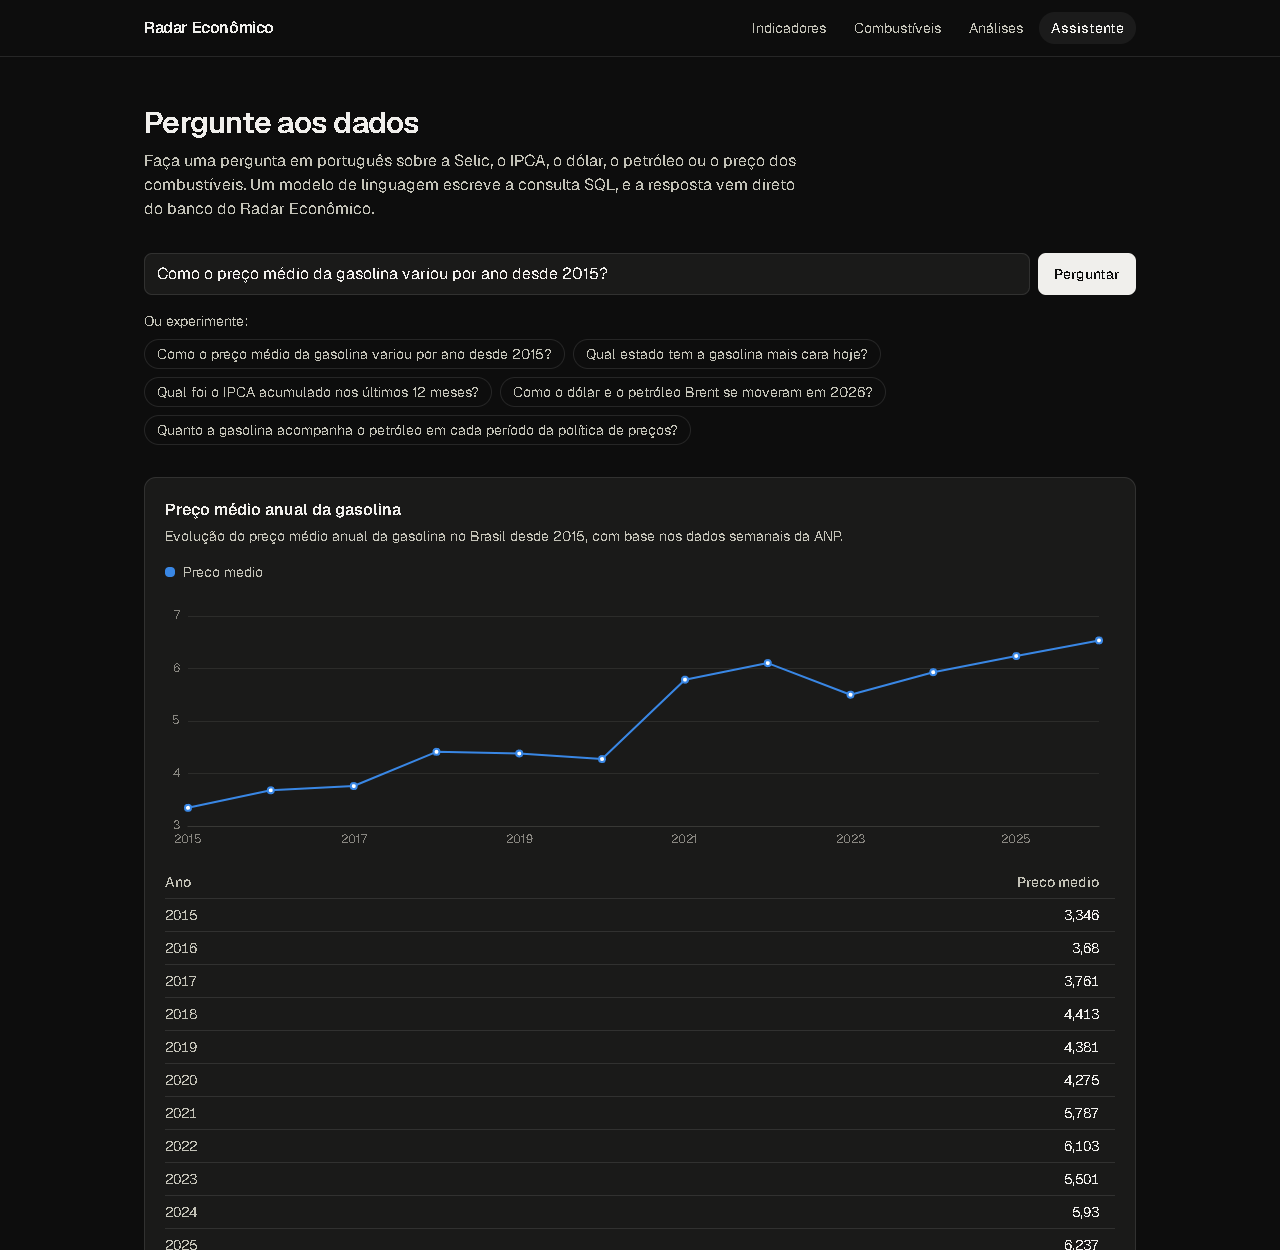
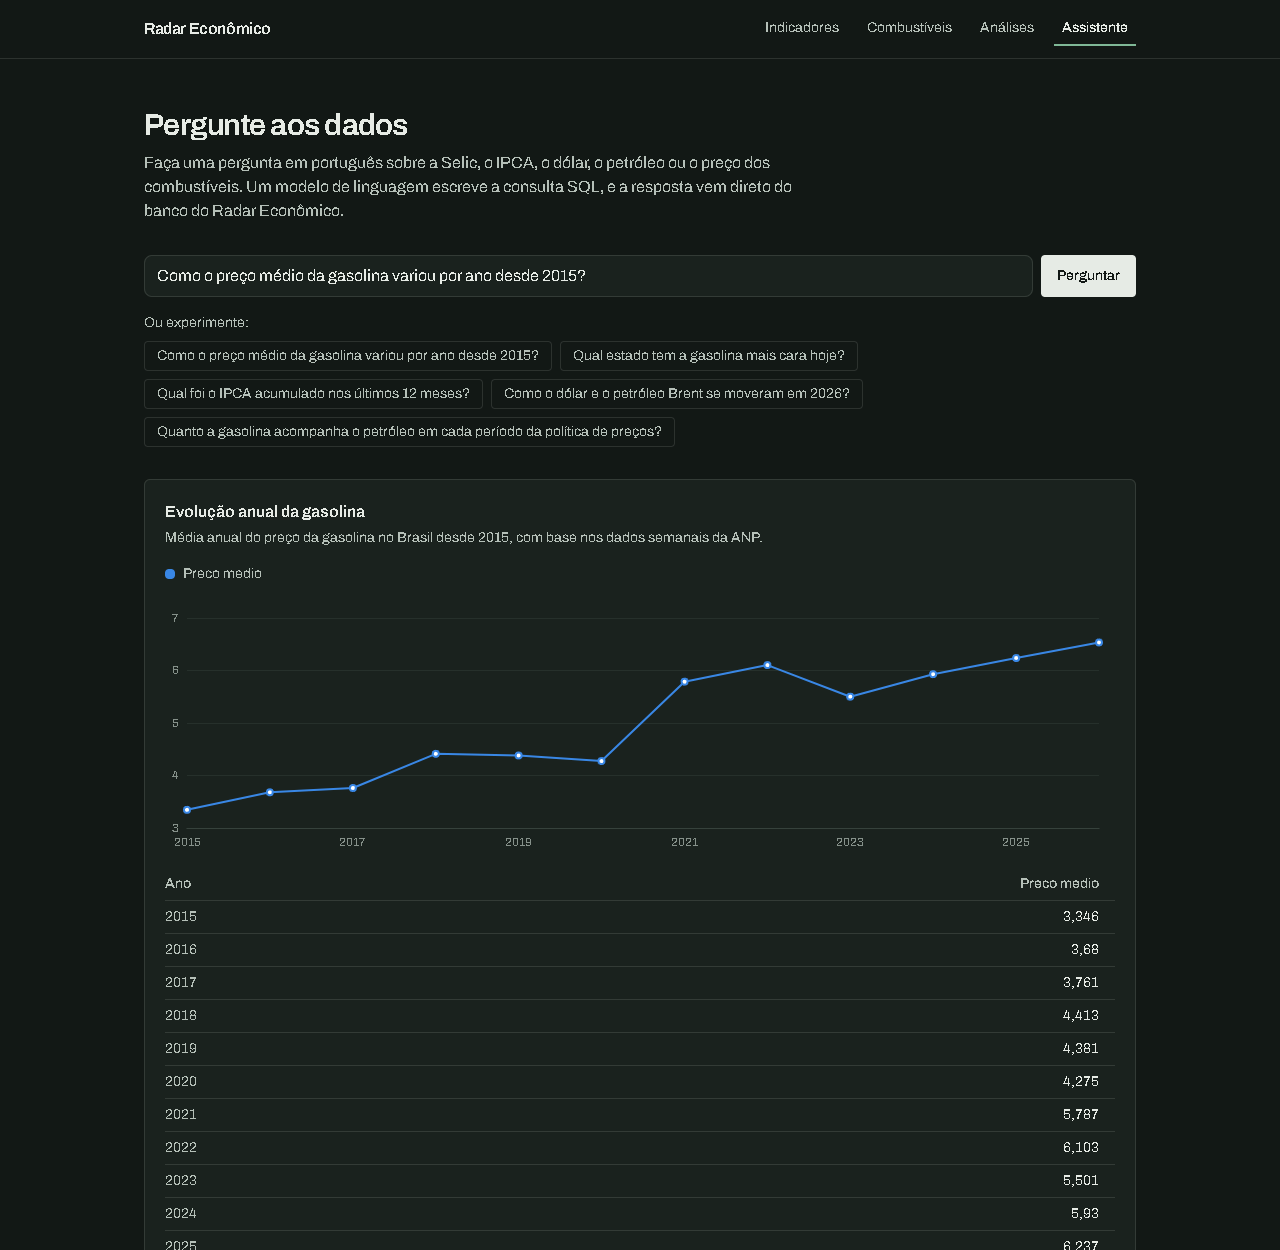
docs: capturas e GIF com a nova identidade e a linha do tempo da home

diff --git a/README.md b/README.md
@@ -14,13 +14,13 @@ português escrevendo o SQL. Tudo em produção, com custo zero.
 [![CodeQL](https://github.com/LuizAPLeite/radar-economico/actions/workflows/codeql.yml/badge.svg)](https://github.com/LuizAPLeite/radar-economico/actions/workflows/codeql.yml)
 [![Canário das fontes](https://github.com/LuizAPLeite/radar-economico/actions/workflows/fontes.yml/badge.svg)](https://github.com/LuizAPLeite/radar-economico/actions/workflows/fontes.yml)
 
-![Demonstração: a página de indicadores, o mapa de preços da gasolina por município, as análises de repasse do petróleo para a bomba e o assistente respondendo "Qual estado tem o diesel S10 mais caro?" com Acre, R$ 8,305](docs/img/demo.gif)
+![Demonstração: a linha do tempo da gasolina, de R$ 2,09 em 2004 até hoje, avançando com a rolagem; a página de indicadores, o mapa de preços da gasolina por município, as análises de repasse do petróleo para a bomba e o assistente respondendo "Qual estado tem o diesel S10 mais caro?" com Acre, R$ 8,305](docs/img/demo.gif)
 
 ## O que dá para ver
 
 | | |
 |---|---|
-| <picture><source media="(prefers-color-scheme: dark)" srcset="docs/img/inicio-escuro.png"><img alt="Indicadores: cards da Selic (13,75%), do IPCA (0,82% em setembro), do dólar (R$ 5,56) e do Brent (US$ 107,03), e o gráfico da Selic em degraus nos últimos 5 anos" src="docs/img/inicio.png"></picture> **Indicadores**: Selic, IPCA, dólar e petróleo Brent, com um seletor de período para todos os gráficos. | <picture><source media="(prefers-color-scheme: dark)" srcset="docs/img/combustiveis-escuro.png"><img alt="Combustíveis: gasolina a R$ 6,51 no Brasil, o município mais barato (Goiatuba, R$ 5,74) e o mais caro (Parintins, R$ 8,99), o gráfico semanal e o mapa com um ponto por município" src="docs/img/combustiveis.png"></picture> **Combustíveis**: preço semanal por estado e o mapa dos ~400 municípios pesquisados pela ANP. |
+| <picture><source media="(prefers-color-scheme: dark)" srcset="docs/img/inicio-escuro.png"><img alt="Página inicial: o litro da gasolina a R$ 5,68 em jun/2021, com a linha da série oficial da ANP desenhada de 2004 até esse mês" src="docs/img/inicio.png"></picture> **Início**: o preço da gasolina de 2004 até hoje, contado pela rolagem; depois, Selic, IPCA, dólar e Brent. | <picture><source media="(prefers-color-scheme: dark)" srcset="docs/img/combustiveis-escuro.png"><img alt="Combustíveis: gasolina a R$ 6,51 no Brasil, o município mais barato (Goiatuba, R$ 5,74) e o mais caro (Parintins, R$ 8,99), o gráfico semanal e o mapa com um ponto por município" src="docs/img/combustiveis.png"></picture> **Combustíveis**: preço semanal por estado e o mapa dos ~400 municípios pesquisados pela ANP. |
 | <picture><source media="(prefers-color-scheme: dark)" srcset="docs/img/analises-escuro.png"><img alt="Análises do diesel S10: desde 2023, a bomba acompanha o petróleo em reais uma semana depois (correlação de 0,55); o dólar sozinho explica pouco (0,15). Gráfico de barras por período da política de preços" src="docs/img/analises.png"></picture> **Análises**: quanto a bomba acompanha o petróleo e o dólar desde 2004, e a previsão testada contra o passado. | <picture><source media="(prefers-color-scheme: dark)" srcset="docs/img/assistente-escuro.png"><img alt="Assistente: a pergunta 'Como o preço médio da gasolina variou por ano desde 2015?' respondida com um gráfico de linha de R$ 3,35 em 2015 a R$ 6,54 em 2026 e a tabela por ano" src="docs/img/assistente.png"></picture> **Assistente**: pergunta em português → SQL escrito pelo Gemini → gráfico, tabela e o SQL usado. |
 
 ## Destaques técnicos
